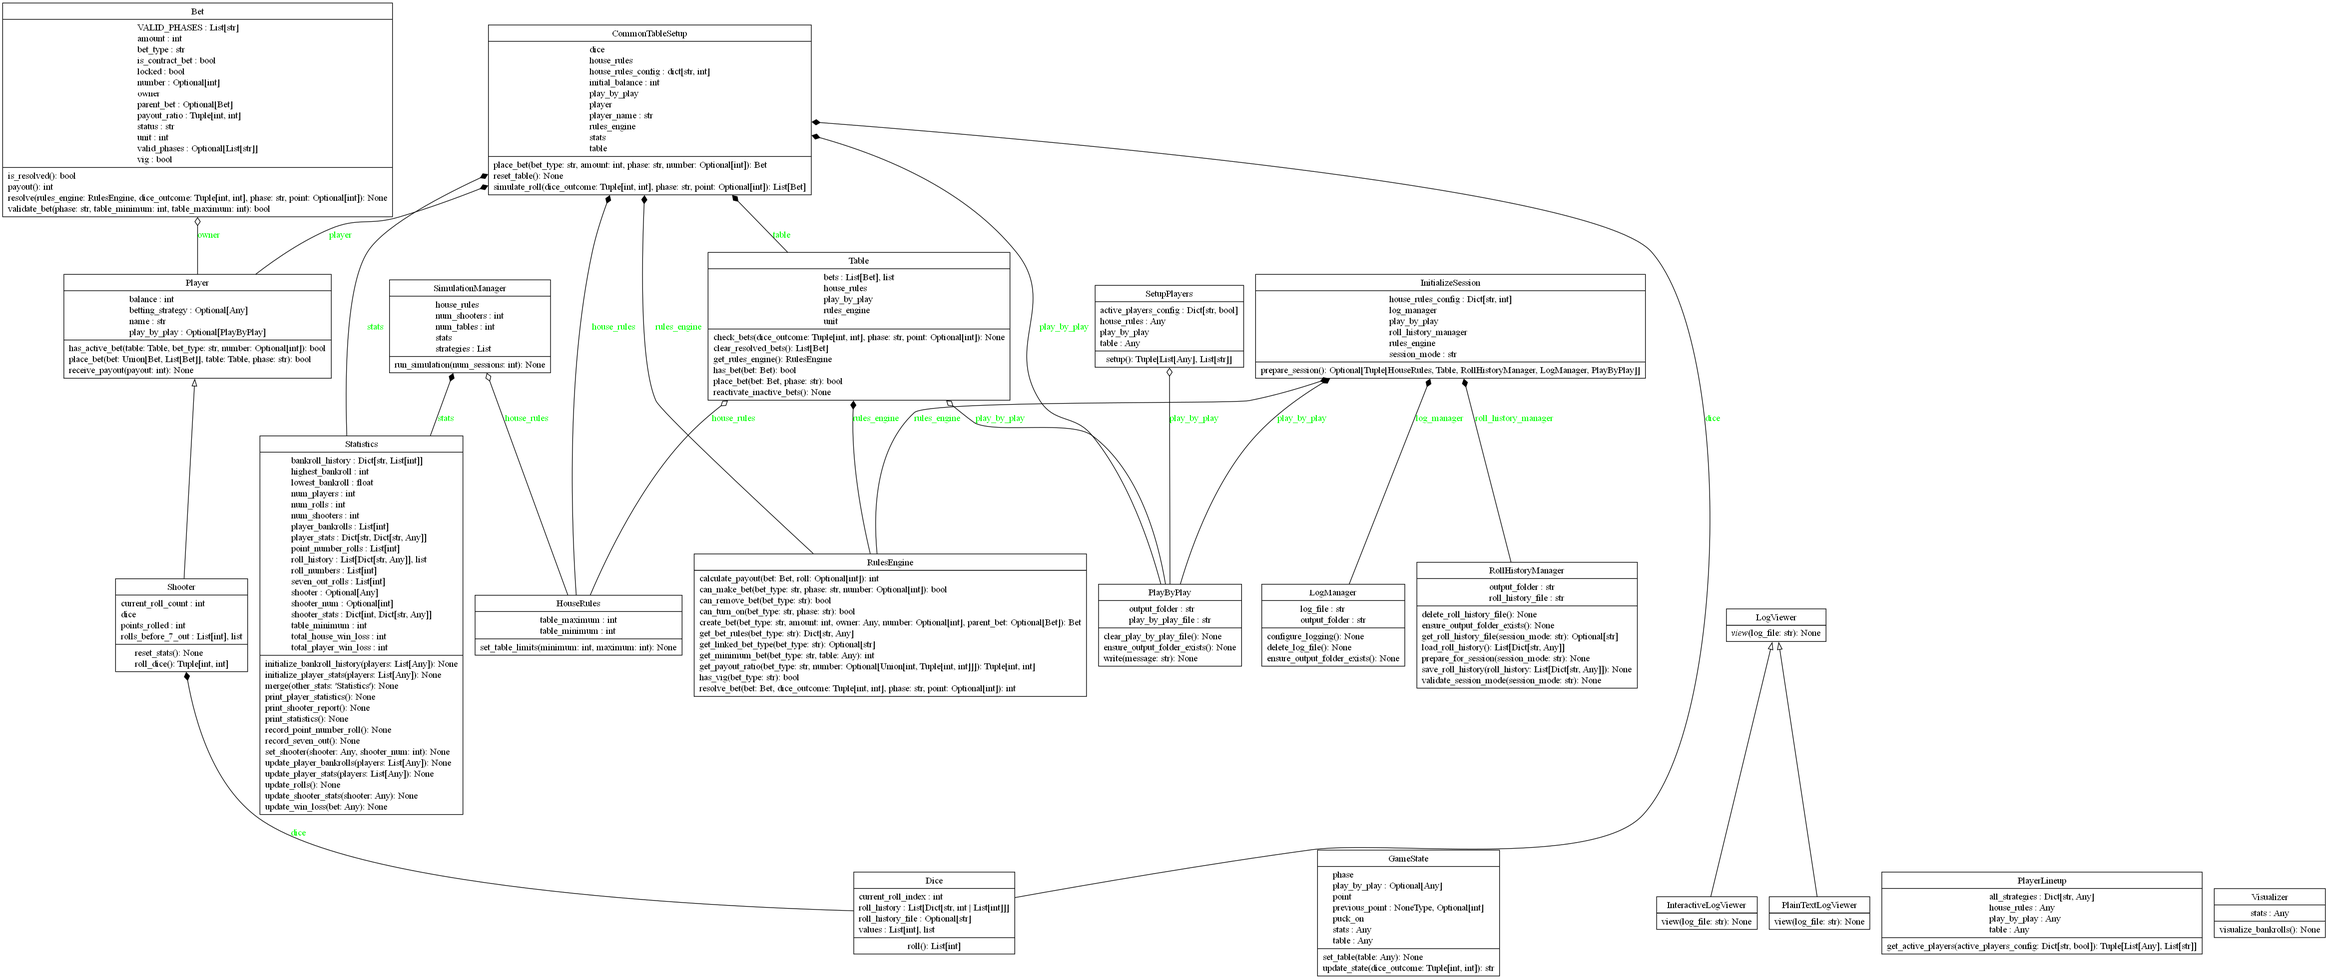
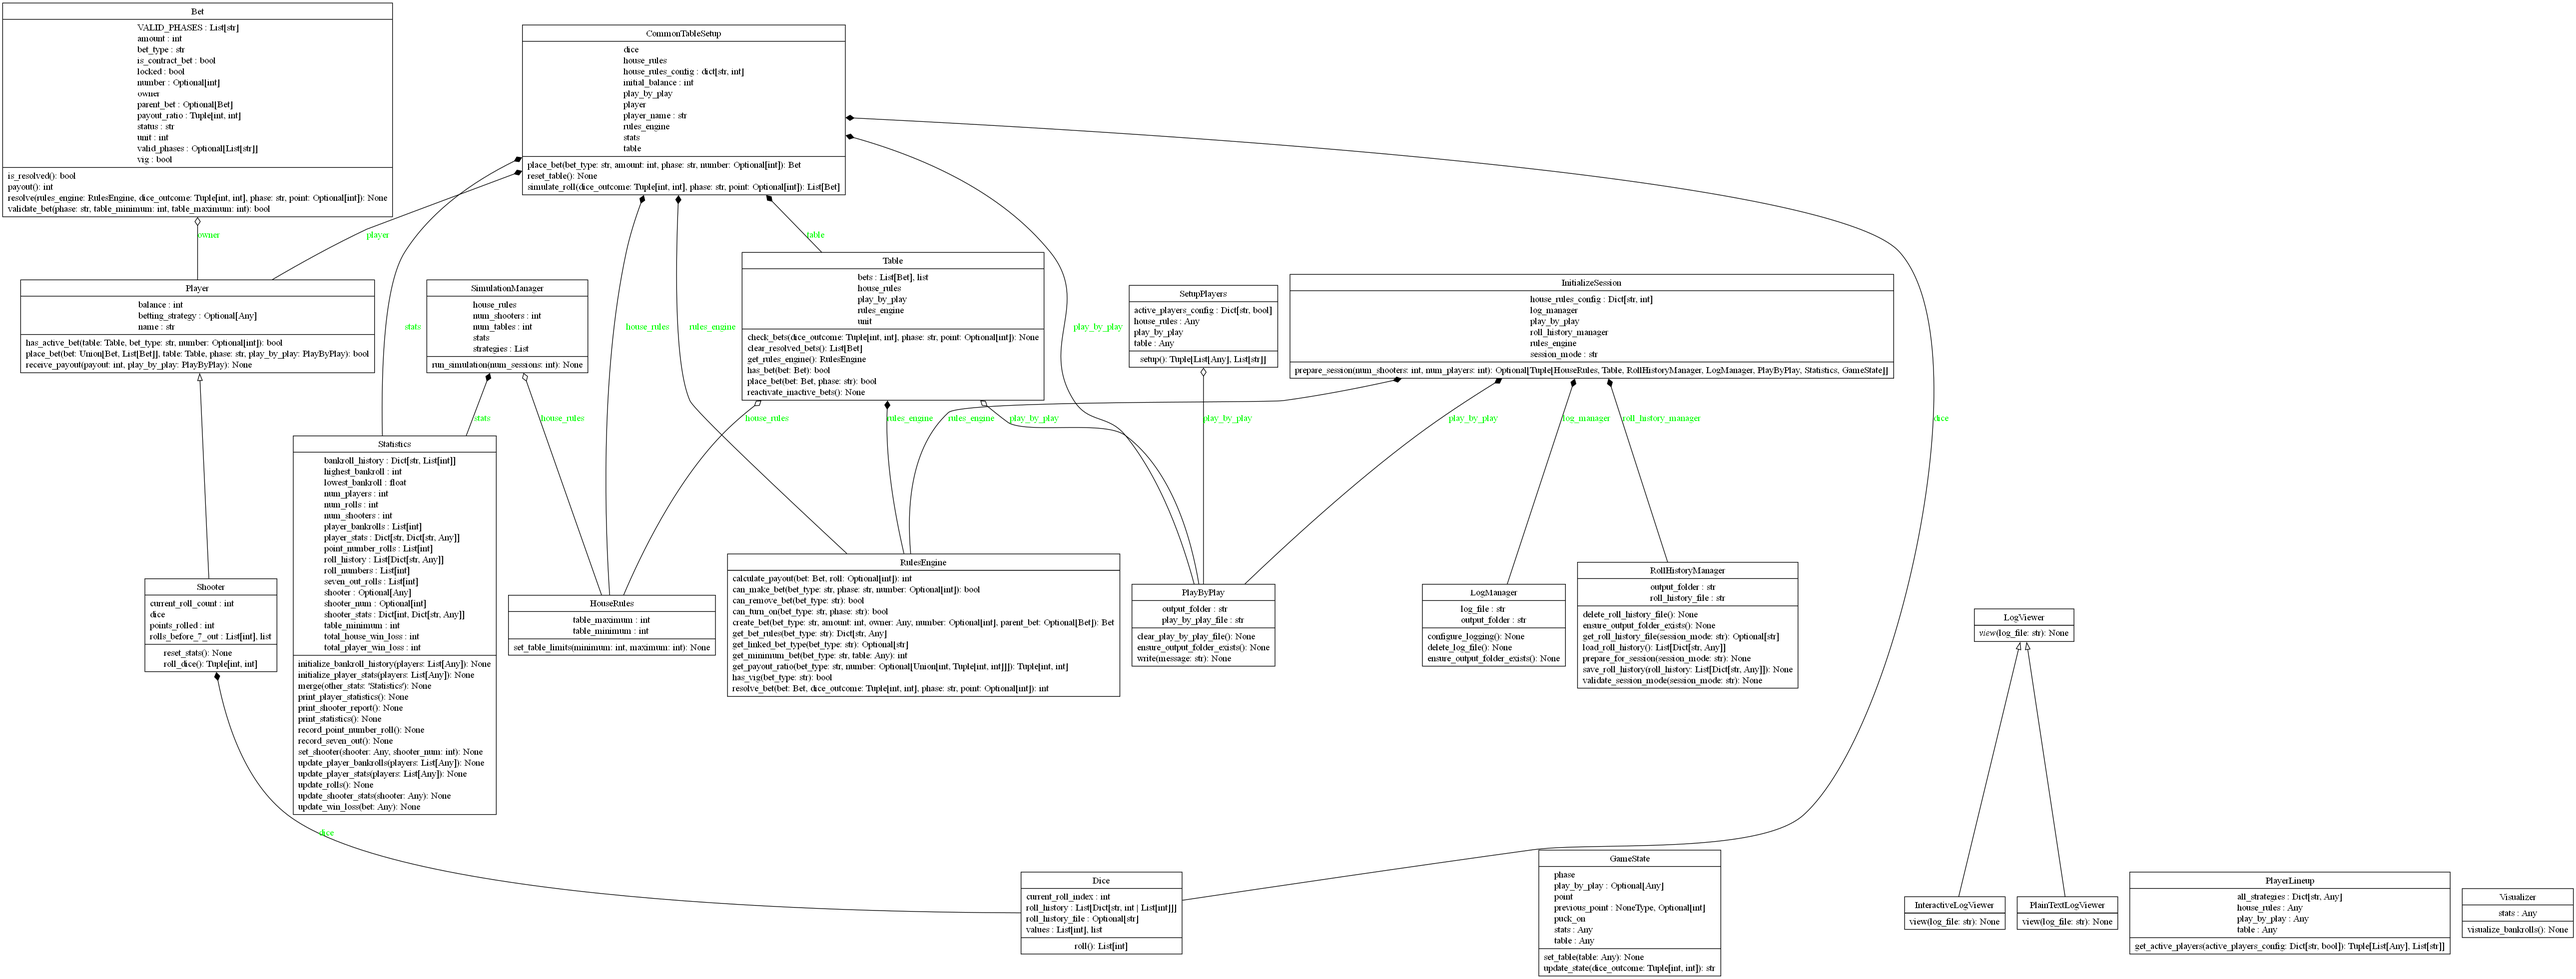
Refactored InitializeSession - clean UML

diff --git a/craps/single_session.py b/craps/single_session.py
@@ -8,6 +8,8 @@ from craps.statistics import Statistics
 from craps.rules_engine import RulesEngine
 from craps.play_by_play import PlayByPlay
 from craps.house_rules import HouseRules
+from craps.log_manager import LogManager
+from craps.session_initializer import InitializeSession
 import os
 
 def run_single_session(
@@ -16,8 +18,7 @@ def run_single_session(
     player_names: Optional[List[str]] = None, 
     initial_bankroll: int = 500, 
     num_shooters: int = 10, 
-    roll_history_file: Optional[str] = None, 
-    play_by_play: PlayByPlay = PlayByPlay()
+    roll_history_file: Optional[str] = None
 ) -> Statistics:
     """
     Run a single session of craps and log the roll history.
@@ -30,20 +31,21 @@ def run_single_session(
     else:
         dice = Dice()  # Use random rolls
 
-    # Initialize components
-    rules_engine = RulesEngine()
-    table = Table(house_rules, play_by_play)
-    stats = Statistics(house_rules.table_minimum, num_shooters, len(strategies))
-    stats.roll_history = []  # Ensure roll_history is initialized
-    game_state = GameState(stats, play_by_play=play_by_play)
-    game_state.set_table(table)
+    # Initialie Session
+    session_initializer = InitializeSession(session_mode="live", house_rules_config={"table_minimum": house_rules.table_minimum, "table_maximum": house_rules.table_maximum})
+    session_data = session_initializer.prepare_session(num_shooters, len(strategies))
+    
+    if session_data is None:
+        raise RuntimeError("Failed to initialize session.")
+
+    house_rules, table, roll_history_manager, log_manager, play_by_play, stats, game_state = session_data
 
     # Create players with different betting strategies
     if player_names is None:
         player_names = [f"Player {i+1}" for i in range(len(strategies))]
 
     players = [
-        Shooter(player_names[i], initial_balance=initial_bankroll, betting_strategy=strategy, dice=dice, play_by_play=play_by_play)
+        Shooter(player_names[i], initial_balance=initial_bankroll, betting_strategy=strategy, dice=dice)
         for i, strategy in enumerate(strategies)
     ]
 
@@ -64,7 +66,7 @@ def run_single_session(
             for player in players:
                 bet = player.betting_strategy.get_bet(game_state, player, table)
                 if bet:
-                    player.place_bet(bet, table, game_state.phase)  # Pass the current phase
+                    player.place_bet(bet, table, game_state.phase, play_by_play)  # Pass play_by_play
 
             # Roll the dice and resolve bets
             outcome = shooter.roll_dice()
@@ -74,7 +76,7 @@ def run_single_session(
 
             # Log the dice roll and total
             message = f"{Fore.LIGHTMAGENTA_EX}{shooter.name} rolled: {outcome} (Total: {total}) | Roll Count: {stats.num_rolls}{Style.RESET_ALL}"
-            play_by_play.write(message)  # Write the message to the play-by-play file
+            play_by_play.write(message)
 
             # Log the roll to the history
             roll_history.append({
@@ -94,10 +96,10 @@ def run_single_session(
             for bet in resolved_bets:
                 if bet.status == "won":
                     payout = bet.payout()
-                    bet.owner.receive_payout(payout)
+                    bet.owner.receive_payout(payout, play_by_play)
                 elif bet.status == "lost":
                     message = f"{Fore.RED}❌ {bet.owner.name}'s {bet.bet_type} bet LOST ${bet.amount}.{Style.RESET_ALL}"
-                    play_by_play.write(message)  # Write the message to the play-by-play file
+                    play_by_play.write(message)
                 stats.update_win_loss(bet)
 
             # Update player bankrolls in statistics
@@ -107,7 +109,7 @@ def run_single_session(
             previous_phase = game_state.phase
             message = game_state.update_state(outcome)
             if message:
-                play_by_play.write(message)  # Write the message to the play-by-play file
+                play_by_play.write(message)
 
             # Check if the shooter 7-outs
             if previous_phase == "point" and total == 7:

diff --git a/craps/player.py b/craps/player.py
@@ -5,7 +5,7 @@ from craps.table import Table
 from craps.play_by_play import PlayByPlay
 
 class Player:
-    def __init__(self, name: str, initial_balance: int = 500, betting_strategy: Any = None, play_by_play: Optional[PlayByPlay] = None) -> None:
+    def __init__(self, name: str, initial_balance: int = 500, betting_strategy: Optional[Any] = None):
         """
         Initialize a player.
 
@@ -17,15 +17,15 @@ class Player:
         self.name: str = name
         self.balance: int = initial_balance
         self.betting_strategy: Any = betting_strategy
-        self.play_by_play: Optional[PlayByPlay] = play_by_play
 
-    def place_bet(self, bet: Union[Bet, List[Bet]], table: Table, phase: str) -> bool:
+    def place_bet(self, bet: Union[Bet, List[Bet]], table: Table, phase: str, play_by_play: PlayByPlay) -> bool:
         """
         Place a bet (or multiple bets) on the table and deduct the amount from the player's balance.
 
         :param bet: The bet(s) to place.
         :param table: The table to place the bet on.
         :param phase: The current game phase ("come-out" or "point").
+        :param play_by_play: The PlayByPlay instance for logging messages.
         :return: True if the bet(s) were placed successfully, False otherwise.
         """
         bets: List[Bet] = [bet] if not isinstance(bet, list) else bet
@@ -41,24 +41,24 @@ class Player:
 
         if total_amount > self.balance:
             message: str = f"{Fore.RED}❌ {self.name} has insufficient funds to place ${total_amount} in bets.{Style.RESET_ALL}"
-            if self.play_by_play:
-                self.play_by_play.write(message)
+            if play_by_play:
+                play_by_play.write(message)
             return False
 
         for b in bets:
             if not table.place_bet(b, phase):
                 message = f"{Fore.RED}❌ Failed to place {b.bet_type} bet for {self.name}.{Style.RESET_ALL}"
-                if self.play_by_play:
-                    self.play_by_play.write(message)
+                if play_by_play:
+                    play_by_play.write(message)
                 return False
 
             message = f"{Fore.GREEN}✅ {self.name} placed a ${b.amount} {b.bet_type} bet. Bankroll: ${self.balance}.{Style.RESET_ALL}"
-            if self.play_by_play:
-                self.play_by_play.write(message)
+            if play_by_play:
+                play_by_play.write(message)
 
         return True
 
-    def receive_payout(self, payout: int) -> None:
+    def receive_payout(self, payout: int, play_by_play: PlayByPlay) -> None:
         """
         Add the payout amount to the player's bankroll.
 
@@ -66,8 +66,8 @@ class Player:
         """
         self.balance += payout
         message: str = f"{Fore.GREEN}✅ {self.name} received a payout of ${payout}. Bankroll: ${self.balance}.{Style.RESET_ALL}"
-        if self.play_by_play:
-            self.play_by_play.write(message)
+        if play_by_play:
+            play_by_play.write(message)
 
     def has_active_bet(self, table: Table, bet_type: str, number: Optional[int] = None) -> bool:
         """

diff --git a/craps/session_initializer.py b/craps/session_initializer.py
@@ -5,6 +5,8 @@ from craps.roll_history_manager import RollHistoryManager
 from craps.log_manager import LogManager
 from craps.play_by_play import PlayByPlay
 from craps.rules_engine import RulesEngine
+from craps.statistics import Statistics
+from craps.game_state import GameState
 
 class InitializeSession:
     def __init__(self, session_mode: str, house_rules_config: Dict[str, int]) -> None:
@@ -21,7 +23,9 @@ class InitializeSession:
         self.play_by_play: PlayByPlay = PlayByPlay()
         self.rules_engine: RulesEngine = RulesEngine()
 
-    def prepare_session(self) -> Optional[Tuple[HouseRules, Table, RollHistoryManager, LogManager, PlayByPlay]]:
+    def prepare_session(self, num_shooters: int, num_players: int) -> Optional[
+        Tuple[HouseRules, Table, RollHistoryManager, LogManager, PlayByPlay, Statistics, GameState]
+    ]:
         """Prepare the session based on the session mode."""
         try:
             self.roll_history_manager.prepare_for_session(self.session_mode)
@@ -35,10 +39,15 @@ class InitializeSession:
         # Create the Table object with the RulesEngine
         table = Table(house_rules, self.play_by_play)
 
+        # Initialize Statistics and GameState
+        stats = Statistics(house_rules.table_minimum, num_shooters, num_players)
+        game_state = GameState(stats, play_by_play=self.play_by_play)
+        game_state.set_table(table)
+
         # Delete the existing log file before starting the session
         self.log_manager.delete_log_file()
 
         # Clear the play-by-play file before starting the session
         self.play_by_play.clear_play_by_play_file()
 
-        return house_rules, table, self.roll_history_manager, self.log_manager, self.play_by_play
+        return house_rules, table, self.roll_history_manager, self.log_manager, self.play_by_play, stats, game_state

diff --git a/craps/shooter.py b/craps/shooter.py
@@ -3,14 +3,7 @@ from craps.dice import Dice
 from typing import Optional, List, Tuple, Any
 
 class Shooter(Player):
-    def __init__(
-        self, 
-        name: str, 
-        initial_balance: int = 0, 
-        betting_strategy: Optional[Any] = None, 
-        dice: Optional[Dice] = None, 
-        play_by_play: Optional[Any] = None
-    ) -> None:
+    def __init__(self, name: str, initial_balance: int = 0, betting_strategy: Optional[Any] = None, dice: Optional[Dice] = None) -> None:
         """
         Initialize the shooter.
 
@@ -18,9 +11,8 @@ class Shooter(Player):
         :param initial_balance: The initial bankroll of the shooter.
         :param betting_strategy: The betting strategy used by the shooter.
         :param dice: An optional Dice instance for rolling dice.
-        :param play_by_play: The PlayByPlay instance for logging.
         """
-        super().__init__(name, initial_balance, betting_strategy, play_by_play)
+        super().__init__(name, initial_balance, betting_strategy)
         self.dice: Dice = dice if dice else Dice()  # Ensure Dice instance
         self.points_rolled: int = 0
         self.rolls_before_7_out: List[int] = []  # Explicit type annotation

diff --git a/craps/table.py b/craps/table.py
@@ -96,7 +96,7 @@ class Table:
         for bet in resolved_bets:
             if bet.status == "won":
                 payout = bet.payout()
-                bet.owner.receive_payout(payout)
+                bet.owner.receive_payout(payout, self.play_by_play)
             elif bet.status == "lost":
                 bet.owner.balance -= bet.amount  # Deduct bet amount on loss
                 message = f"{Fore.RED}❌ {bet.owner.name} lost ${bet.amount} on {bet.bet_type}. New Bankroll: ${bet.owner.balance}.{Style.RESET_ALL}"
